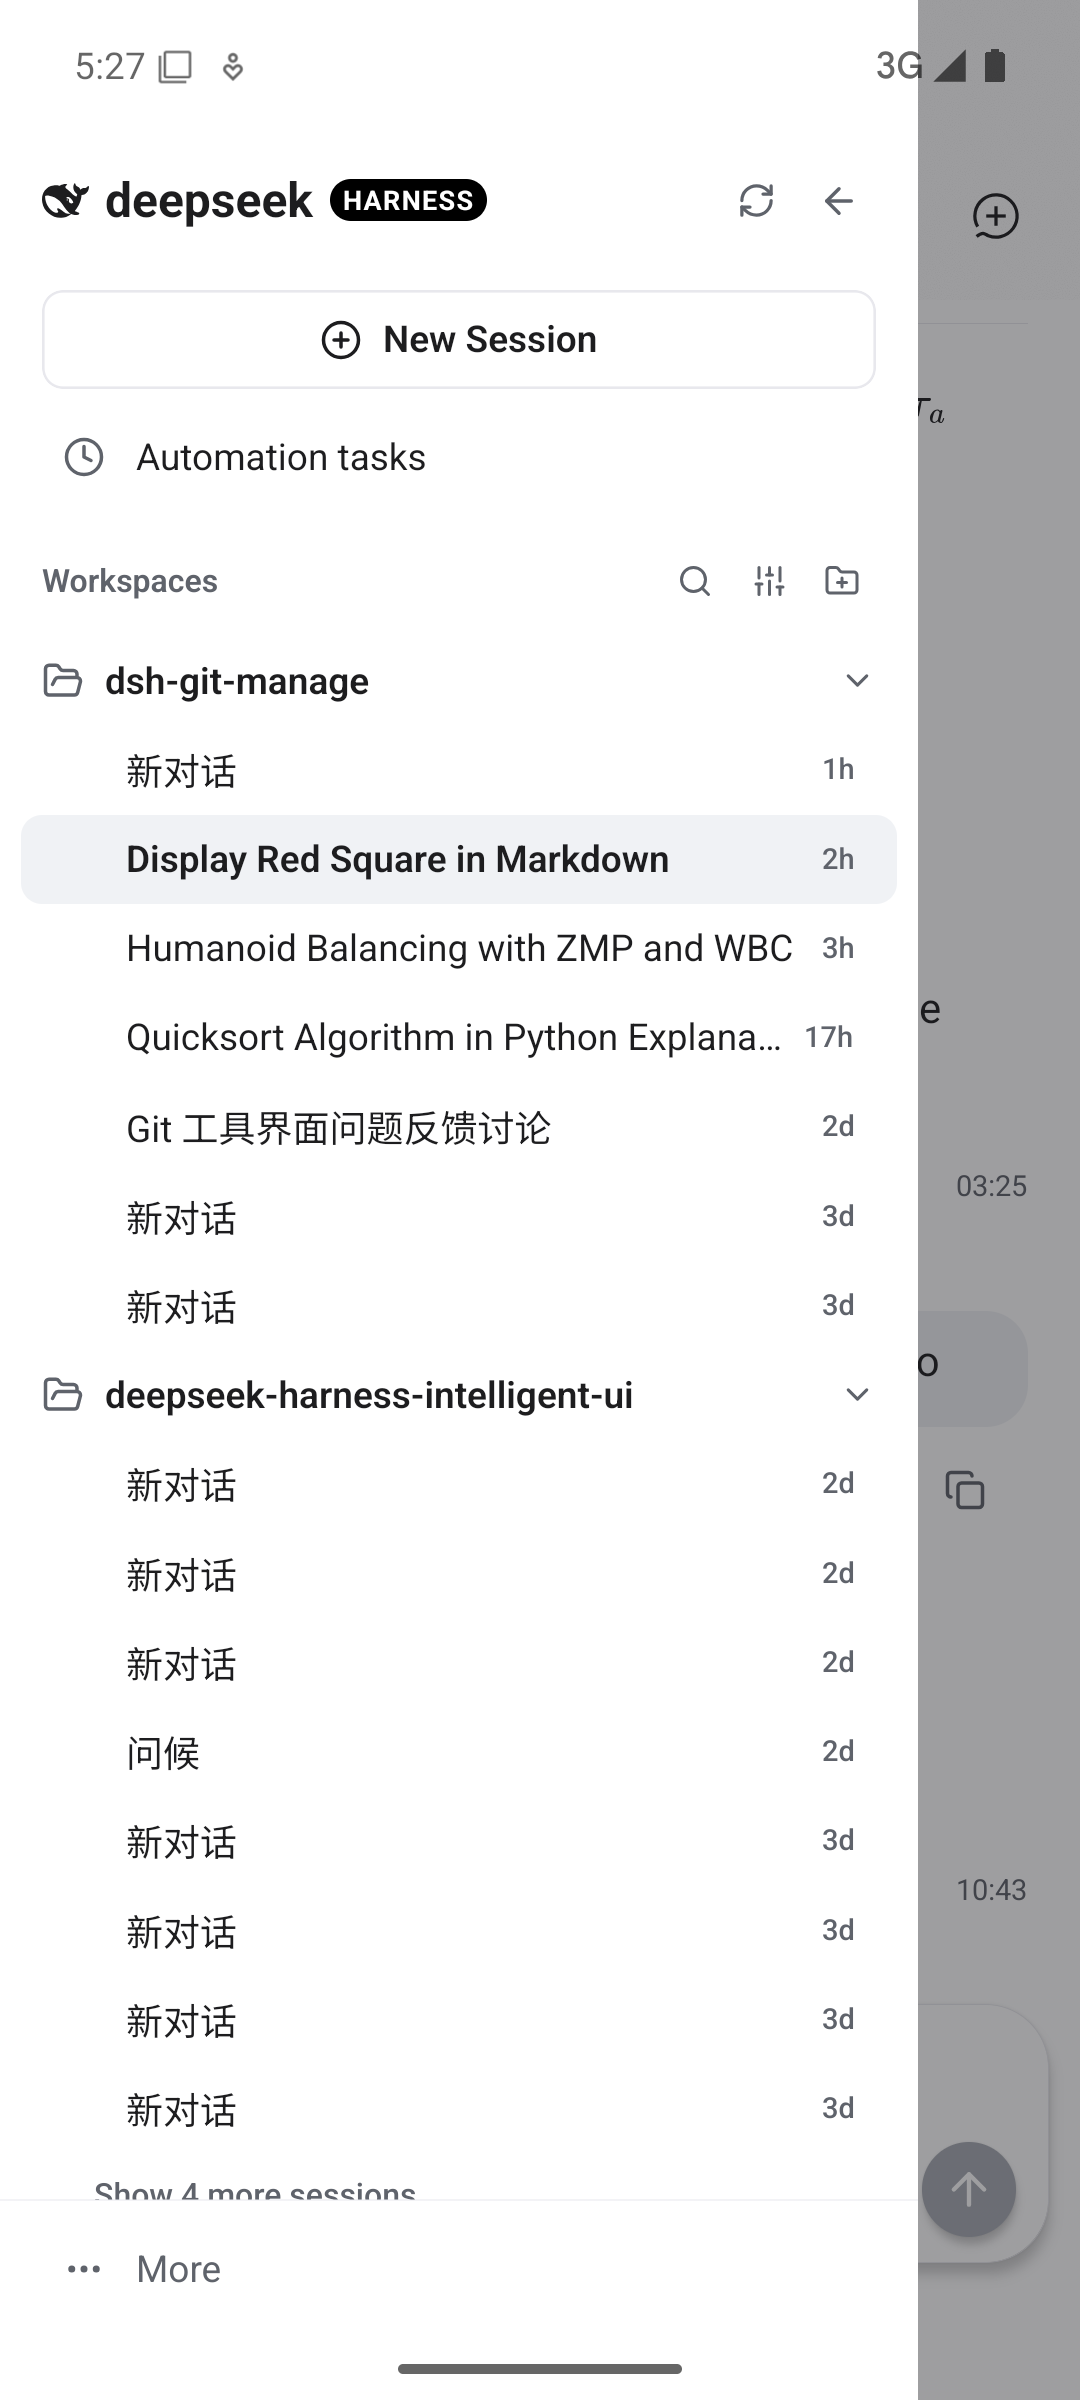
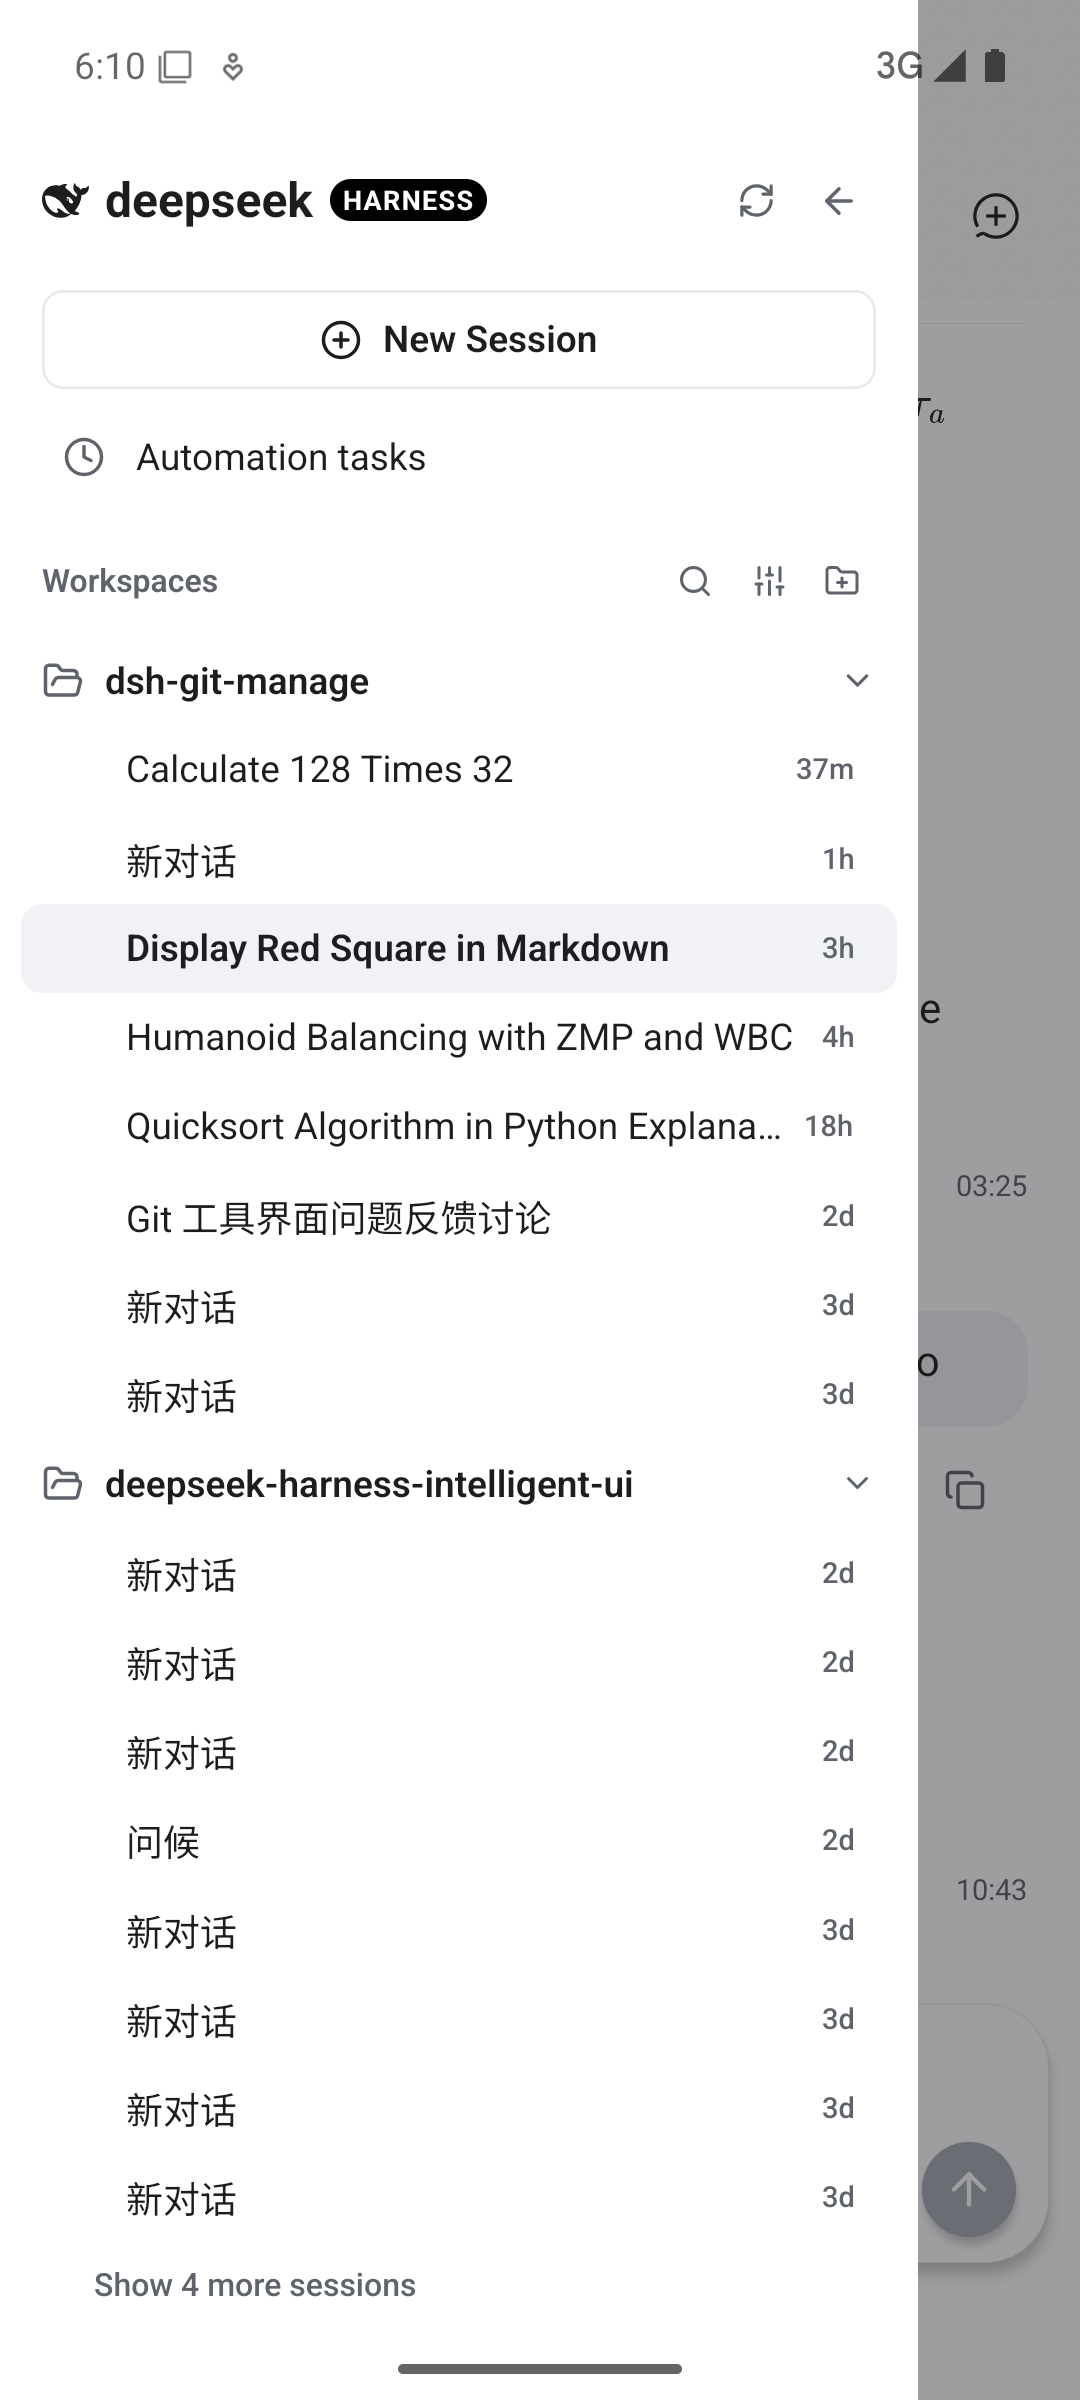
fix(android): anchor view options popover below workspaces toolbar and remove footer more button (#171)

diff --git a/apps/android/src/screens/host-sessions-drawer.tsx b/apps/android/src/screens/host-sessions-drawer.tsx
@@ -1,6 +1,5 @@
 import { useEffect, useMemo, useRef, useState } from 'react'
 import {
-  ActivityIndicator,
   Alert,
   Animated,
   PanResponder,
@@ -24,7 +23,6 @@ import {
   Folder,
   FolderOpen,
   FolderPlus,
-  MoreHorizontal,
   PlusCircle,
   RefreshCw,
   Search,
@@ -43,6 +41,11 @@ import { browseStatus } from '../lib/backend-groups'
 import { clampDrawerTranslate, shouldConfirmSwipeLeftClose, shouldStartSwipeLeftToClose } from '../lib/gesture-swipe-rules'
 
 const SESSION_PAGE_SIZE = 8
+
+/** 浮窗相对工具栏底部的间距 */
+const POPOVER_OFFSET = 4
+/** 浮窗到容器右边缘的距离（与工具栏 paddingHorizontal 对齐） */
+const POPOVER_RIGHT_INSET = spacing.md
 
 function formatRelativeTime(timestamp?: number | string): string {
   if (!timestamp) return ''
@@ -70,7 +73,6 @@ export function HostSessionsDrawer({
   inline?: boolean
   backLabel?: string
 }) {
-  const device = useAppStore(state => state.selectedDevice)
   const sessions = useAppStore(state => state.sessions)
   const lifecycles = useAppStore(state => state.sessionLifecycles)
   const selected = useAppStore(state => state.selectedSession)
@@ -91,9 +93,30 @@ export function HostSessionsDrawer({
   const [expandedWorkspaces, setExpandedWorkspaces] = useState<Record<string, boolean>>({})
   const [visibleCounts, setVisibleCounts] = useState<Record<string, number>>({})
 
+  // 浮窗定位：记录工具栏在覆盖层坐标系中的底部位置（默认兜底 200，测量后精准对齐）
+  const [popoverTop, setPopoverTop] = useState<number>(200)
+  const toolbarRef = useRef<View>(null)
+  const containerRef = useRef<View>(null)
+
   const { colors } = useTheme()
   const styles = useThemedStyles(createStyles)
   const insets = useSafeAreaInsets()
+
+  // 打开浮窗时测量工具栏位置，确保浮窗紧贴工具栏下方
+  useEffect(() => {
+    if (!showConfigModal) return
+    const raf = requestAnimationFrame(() => {
+      if (!containerRef.current || !toolbarRef.current) return
+      containerRef.current.measureInWindow((_cx, cy) => {
+        toolbarRef.current?.measureInWindow((_tx, ty, _tw, th) => {
+          if (typeof cy !== 'number' || typeof ty !== 'number' || typeof th !== 'number') return
+          // 工具栏底部相对覆盖层顶部的偏移
+          setPopoverTop(ty - cy + th + POPOVER_OFFSET)
+        })
+      })
+    })
+    return () => cancelAnimationFrame(raf)
+  }, [showConfigModal])
 
   const handleNewSession = async () => {
     const targetWs = workspaces[0]?.workspaceId
@@ -167,7 +190,6 @@ export function HostSessionsDrawer({
   const currentAnim = useRef<Animated.CompositeAnimation | null>(null)
   const gestureSeq = useRef(0)
   const dragReady = useRef(false)
-  const pendingDx = useRef(0)
   const onCloseRef = useRef(onClose)
   useEffect(() => {
     onCloseRef.current = onClose
@@ -178,7 +200,6 @@ export function HostSessionsDrawer({
     closingRef.current = true
     gestureSeq.current++
     dragReady.current = false
-    pendingDx.current = 0
     if (withHaptic) void Haptics.impactAsync(Haptics.ImpactFeedbackStyle.Light).catch(() => undefined)
     const seq = ++animSeq.current
     currentAnim.current?.stop()
@@ -217,7 +238,6 @@ export function HostSessionsDrawer({
           currentAnim.current?.stop()
           const seq = ++gestureSeq.current
           dragReady.current = false
-          pendingDx.current = 0
           translateX.stopAnimation(value => {
             if (seq !== gestureSeq.current || closingRef.current) return
             dragStartX.current = value
@@ -245,8 +265,58 @@ export function HostSessionsDrawer({
     [inline, drawerWidth, translateX, overlayOpacity]
   )
 
+  const closeConfig = () => setShowConfigModal(false)
+
+  /** 排序配置浮窗（在覆盖层内部渲染，供点击命中） */
+  const configPopover = (
+    <View
+      style={[
+        styles.configPopover,
+        { top: popoverTop, right: POPOVER_RIGHT_INSET },
+      ]}
+    >
+      <Text style={styles.modalSectionLabel}>Group by</Text>
+      <Pressable style={styles.modalItem} onPress={() => { setGroupBy('workspace'); closeConfig() }}>
+        <Text style={styles.modalItemText}>WorkSpace</Text>
+        {groupBy === 'workspace' && <Check size={14} color={colors.ink} />}
+      </Pressable>
+      <Pressable style={styles.modalItem} onPress={() => { setGroupBy('list'); closeConfig() }}>
+        <Text style={styles.modalItemText}>In one list</Text>
+        {groupBy === 'list' && <Check size={14} color={colors.ink} />}
+      </Pressable>
+
+      <View style={styles.modalDivider} />
+
+      <Text style={styles.modalSectionLabel}>Order by</Text>
+      <Pressable style={styles.modalItem} onPress={() => { setOrderBy('manual'); closeConfig() }}>
+        <Text style={styles.modalItemText}>Manual</Text>
+        {orderBy === 'manual' && <Check size={14} color={colors.ink} />}
+      </Pressable>
+      <Pressable style={styles.modalItem} onPress={() => { setOrderBy('updated'); closeConfig() }}>
+        <Text style={styles.modalItemText}>Last updated</Text>
+        {orderBy === 'updated' && <Check size={14} color={colors.ink} />}
+      </Pressable>
+
+      <View style={styles.modalDivider} />
+
+      <Text style={styles.modalSectionLabel}>Filter sessions</Text>
+      <Pressable style={styles.modalItem} onPress={() => { setFilterMode('hideArchived'); closeConfig() }}>
+        <Text style={styles.modalItemText}>Hide archived</Text>
+        {filterMode === 'hideArchived' && <Check size={14} color={colors.ink} />}
+      </Pressable>
+      <Pressable style={styles.modalItem} onPress={() => { setFilterMode('all'); closeConfig() }}>
+        <Text style={styles.modalItemText}>All conversations</Text>
+        {filterMode === 'all' && <Check size={14} color={colors.ink} />}
+      </Pressable>
+      <Pressable style={styles.modalItem} onPress={() => { setFilterMode('archivedOnly'); closeConfig() }}>
+        <Text style={styles.modalItemText}>Archived only</Text>
+        {filterMode === 'archivedOnly' && <Check size={14} color={colors.ink} />}
+      </Pressable>
+    </View>
+  )
+
   const content = (
-    <View style={styles.container}>
+    <View ref={containerRef} style={styles.container} collapsable={false}>
       {/* 品牌顶部区 */}
       <View style={styles.brandHeader}>
         <View style={styles.brandLeft}>
@@ -307,45 +377,47 @@ export function HostSessionsDrawer({
       </Pressable>
 
       {/* Workspaces 标题栏与工具栏 */}
-      <View style={styles.workspacesToolbar}>
-        <Text style={styles.workspacesTitle}>Workspaces</Text>
-        <View style={styles.toolbarActions}>
-          <Pressable
-            accessibilityRole="button"
-            accessibilityLabel={strings.comfort.search}
-            hitSlop={6}
-            onPress={() => setShowSearch(prev => !prev)}
-            style={styles.iconBtn}
-          >
-            <Search size={14} color={showSearch ? colors.ink : colors.muted} />
-          </Pressable>
-          <Pressable
-            accessibilityRole="button"
-            accessibilityLabel="View options"
-            hitSlop={6}
-            onPress={() => setShowConfigModal(true)}
-            style={styles.iconBtn}
-          >
-            <Sliders size={14} color={colors.muted} />
-          </Pressable>
-          <Pressable
-            accessibilityRole="button"
-            accessibilityLabel="Add workspace"
-            hitSlop={6}
-            onPress={() => {
-              Alert.alert(
-                '工作区管理',
-                '前往工作区页面查看或添加新工作区？',
-                [
-                  { text: strings.common.cancel, style: 'cancel' },
-                  { text: '前往', onPress: () => { onClose(); onBack() } }
-                ]
-              )
-            }}
-            style={styles.iconBtn}
-          >
-            <FolderPlus size={14} color={colors.muted} />
-          </Pressable>
+      <View ref={toolbarRef} style={styles.workspacesToolbarArea} collapsable={false}>
+        <View style={styles.workspacesToolbar}>
+          <Text style={styles.workspacesTitle}>Workspaces</Text>
+          <View style={styles.toolbarActions}>
+            <Pressable
+              accessibilityRole="button"
+              accessibilityLabel={strings.comfort.search}
+              hitSlop={6}
+              onPress={() => setShowSearch(prev => !prev)}
+              style={styles.iconBtn}
+            >
+              <Search size={14} color={showSearch ? colors.ink : colors.muted} />
+            </Pressable>
+            <Pressable
+              accessibilityRole="button"
+              accessibilityLabel="View options"
+              hitSlop={6}
+              onPress={() => setShowConfigModal(prev => !prev)}
+              style={styles.iconBtn}
+            >
+              <Sliders size={14} color={showConfigModal ? colors.ink : colors.muted} />
+            </Pressable>
+            <Pressable
+              accessibilityRole="button"
+              accessibilityLabel="Add workspace"
+              hitSlop={6}
+              onPress={() => {
+                Alert.alert(
+                  '工作区管理',
+                  '前往工作区页面查看或添加新工作区？',
+                  [
+                    { text: strings.common.cancel, style: 'cancel' },
+                    { text: '前往', onPress: () => { onClose(); onBack() } }
+                  ]
+                )
+              }}
+              style={styles.iconBtn}
+            >
+              <FolderPlus size={14} color={colors.muted} />
+            </Pressable>
+          </View>
         </View>
       </View>
 
@@ -438,73 +510,20 @@ export function HostSessionsDrawer({
         }}
       />
 
-      {/* 底部 Footer */}
-      <View style={styles.footer}>
-        <Pressable
-          accessibilityRole="button"
-          accessibilityLabel="More"
-          onPress={() => {
-            Alert.alert(
-              device?.name ?? '设备信息',
-              `连接状态：${connected ? '在线' : '离线'}\n会话数：${sessions.length}\n工作区数：${workspaces.length}`,
-              [
-                { text: strings.common.refresh, onPress: () => void handleRefresh() },
-                { text: strings.app.backToDevices, onPress: () => { onClose(); onBack() } },
-                { text: strings.common.close, style: 'cancel' }
-              ]
-            )
-          }}
-          style={({ pressed }) => [styles.moreBtn, pressed && styles.pressedBg]}
-        >
-          <MoreHorizontal size={16} color={colors.muted} />
-          <Text style={styles.moreText}>More</Text>
-        </Pressable>
-      </View>
-
-      {/* 视图配置浮窗 Modal */}
-      <Modal visible={showConfigModal} transparent animationType="fade" onRequestClose={() => setShowConfigModal(false)}>
-        <Pressable style={styles.modalBackdrop} onPress={() => setShowConfigModal(false)}>
-          <View style={styles.configModal}>
-            <Text style={styles.modalSectionLabel}>Group by</Text>
-            <Pressable style={styles.modalItem} onPress={() => setGroupBy('workspace')}>
-              <Text style={styles.modalItemText}>WorkSpace</Text>
-              {groupBy === 'workspace' && <Check size={14} color={colors.ink} />}
-            </Pressable>
-            <Pressable style={styles.modalItem} onPress={() => setGroupBy('list')}>
-              <Text style={styles.modalItemText}>In one list</Text>
-              {groupBy === 'list' && <Check size={14} color={colors.ink} />}
-            </Pressable>
-
-            <View style={styles.modalDivider} />
-
-            <Text style={styles.modalSectionLabel}>Order by</Text>
-            <Pressable style={styles.modalItem} onPress={() => setOrderBy('manual')}>
-              <Text style={styles.modalItemText}>Manual</Text>
-              {orderBy === 'manual' && <Check size={14} color={colors.ink} />}
-            </Pressable>
-            <Pressable style={styles.modalItem} onPress={() => setOrderBy('updated')}>
-              <Text style={styles.modalItemText}>Last updated</Text>
-              {orderBy === 'updated' && <Check size={14} color={colors.ink} />}
-            </Pressable>
-
-            <View style={styles.modalDivider} />
-
-            <Text style={styles.modalSectionLabel}>Filter sessions</Text>
-            <Pressable style={styles.modalItem} onPress={() => setFilterMode('hideArchived')}>
-              <Text style={styles.modalItemText}>Hide archived</Text>
-              {filterMode === 'hideArchived' && <Check size={14} color={colors.ink} />}
-            </Pressable>
-            <Pressable style={styles.modalItem} onPress={() => setFilterMode('all')}>
-              <Text style={styles.modalItemText}>All conversations</Text>
-              {filterMode === 'all' && <Check size={14} color={colors.ink} />}
-            </Pressable>
-            <Pressable style={styles.modalItem} onPress={() => setFilterMode('archivedOnly')}>
-              <Text style={styles.modalItemText}>Archived only</Text>
-              {filterMode === 'archivedOnly' && <Check size={14} color={colors.ink} />}
-            </Pressable>
-          </View>
-        </Pressable>
-      </Modal>
+      {/* 排序配置浮窗覆盖层：整层覆盖抽屉内容，遮罩与浮窗同级且顺序明确 */}
+      {showConfigModal && (
+        <View style={styles.popoverLayer} pointerEvents="box-none">
+          {/* 全屏透明遮罩：点击关闭浮窗，不会穿透到下层 */}
+          <Pressable
+            style={StyleSheet.absoluteFill}
+            accessibilityRole="button"
+            accessibilityLabel="Close view options"
+            onPress={closeConfig}
+          />
+          {/* 浮窗内容：位于遮罩之上，点击不会穿透 */}
+          {configPopover}
+        </View>
+      )}
     </View>
   )
 
@@ -582,6 +601,7 @@ const createStyles = (colors: ThemeColors) =>
     },
     navItemText: { ...type.small, color: colors.ink },
 
+    workspacesToolbarArea: { position: 'relative' },
     workspacesToolbar: {
       flexDirection: 'row',
       alignItems: 'center',
@@ -645,32 +665,28 @@ const createStyles = (colors: ThemeColors) =>
     },
     showMoreText: { ...type.caption, color: colors.muted },
 
-    footer: {
-      borderTopWidth: StyleSheet.hairlineWidth,
-      borderTopColor: colors.separator,
-      paddingHorizontal: spacing.md,
-      paddingVertical: spacing.xs,
-    },
-    moreBtn: {
-      flexDirection: 'row',
-      alignItems: 'center',
-      gap: spacing.sm,
-      height: 36,
-      borderRadius: radius.sm,
-      paddingHorizontal: spacing.xs,
-    },
-    moreText: { ...type.small, color: colors.muted },
-
     pressedBg: { opacity: 0.7, backgroundColor: colors.surfaceStrong },
 
-    modalBackdrop: { flex: 1, backgroundColor: 'rgba(0,0,0,0.4)', justifyContent: 'center', alignItems: 'center' },
-    configModal: {
-      width: 250,
+    // 浮窗覆盖层：铺满抽屉内容区，作为唯一命中层，避免跨父级层级问题
+    popoverLayer: {
+      ...StyleSheet.absoluteFill,
+      zIndex: 999,
+      elevation: 999,
+    },
+    configPopover: {
+      position: 'absolute',
+      width: 220,
       backgroundColor: colors.surface,
       borderRadius: radius.sm,
-      padding: spacing.md,
+      padding: spacing.sm,
       borderWidth: 1,
       borderColor: colors.separator,
+      shadowColor: '#000',
+      shadowOffset: { width: 0, height: 4 },
+      shadowOpacity: 0.15,
+      shadowRadius: 8,
+      elevation: 8,
+      zIndex: 1000,
     },
     modalSectionLabel: { ...type.caption, color: colors.muted, marginBottom: 4, fontWeight: '600' },
     modalItem: {
